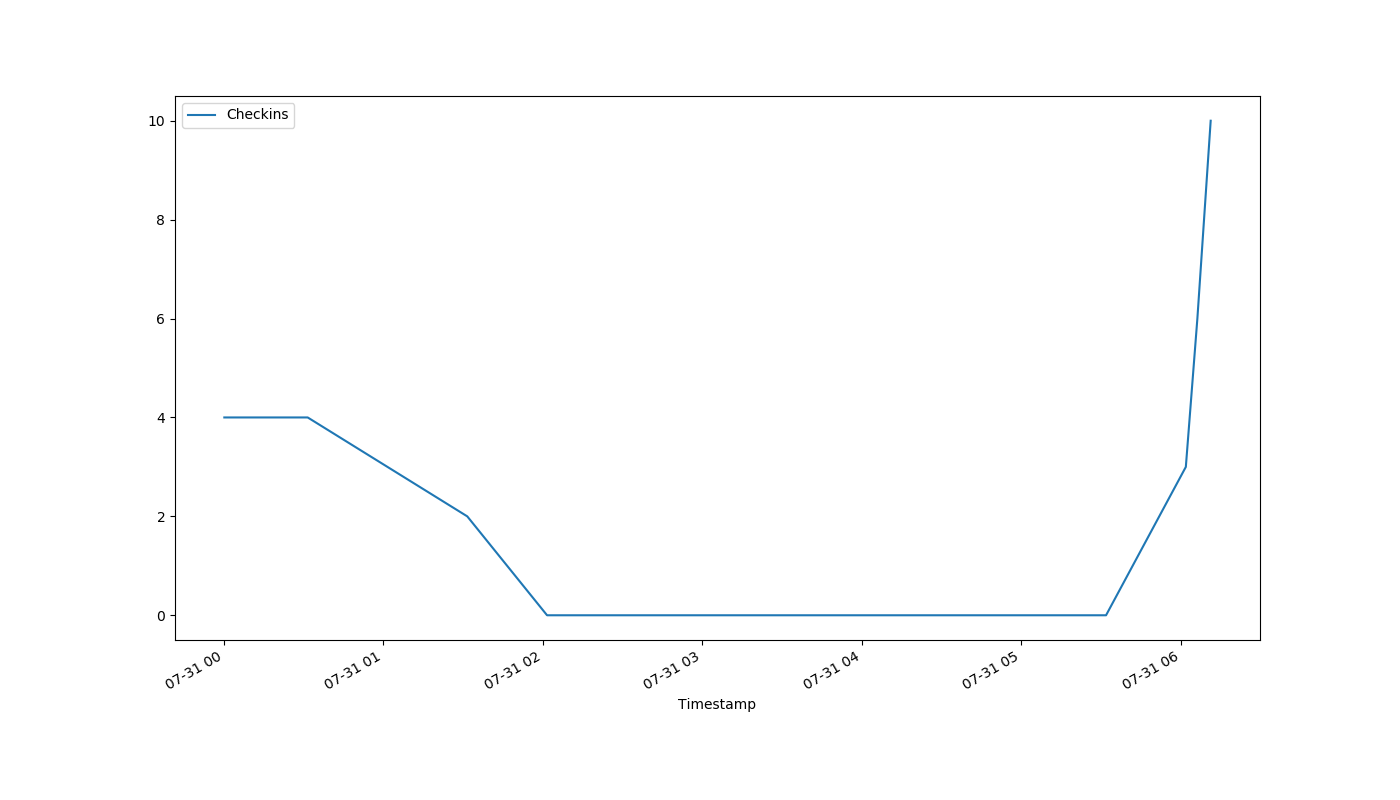
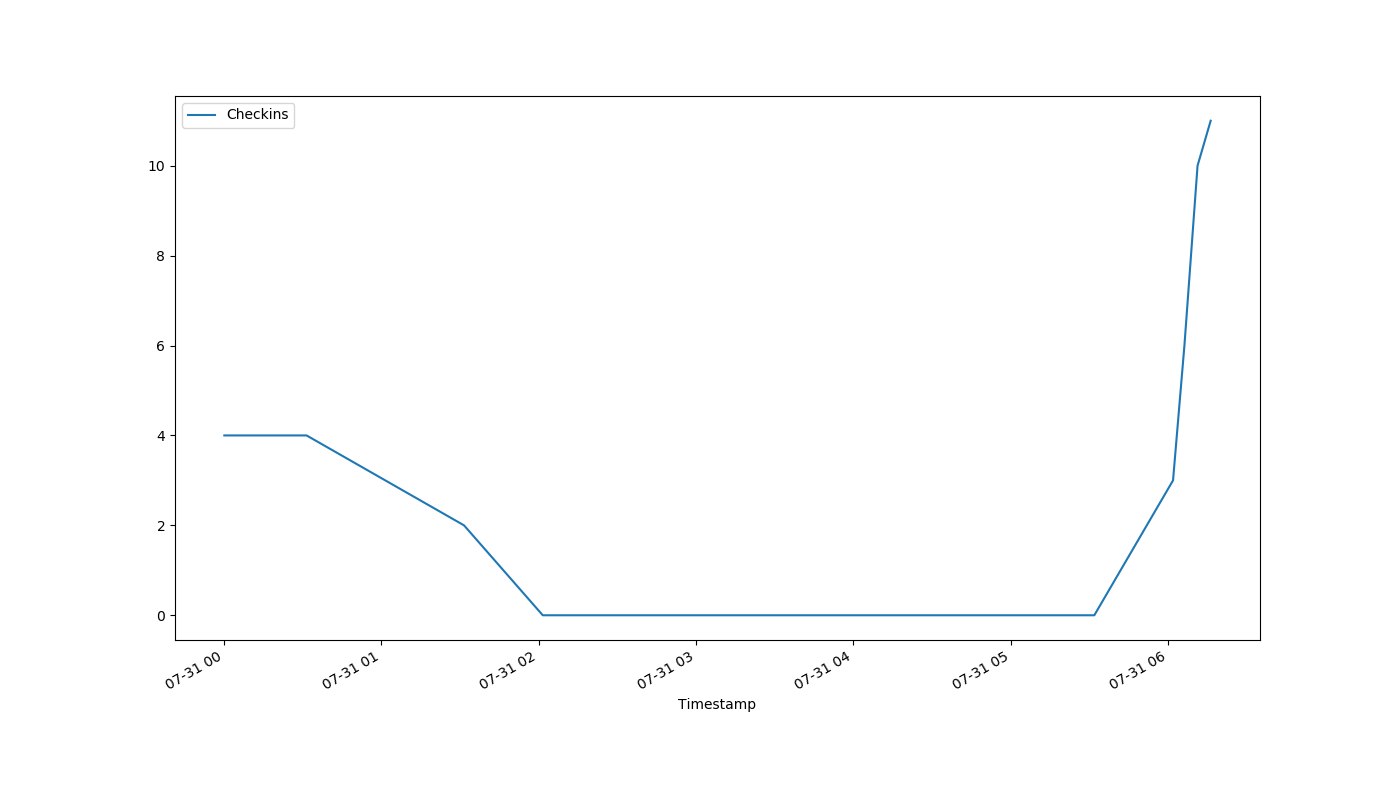
auto-Jul-31-06:18:38

diff --git a/index.html b/index.html
@@ -1,1 +1,1 @@
-<!DOCTYPE html><html><head><meta http-equiv="refresh" content="30"><link rel='stylesheet' href='holmcurrent.css'></head><body><p id='count'>10</p><div id='graph-wrap'><img id='graph' src='holmgraph-Jul-31.png'></div><p id='updated'>Last updated 06:12:02 / 06:11:09</p></body></html>
+<!DOCTYPE html><html><head><meta http-equiv="refresh" content="30"><link rel='stylesheet' href='holmcurrent.css'></head><body><p id='count'>11</p><div id='graph-wrap'><img id='graph' src='holmgraph-Jul-31.png'></div><p id='updated'>Last updated 06:17:02 / 06:16:10</p></body></html>
